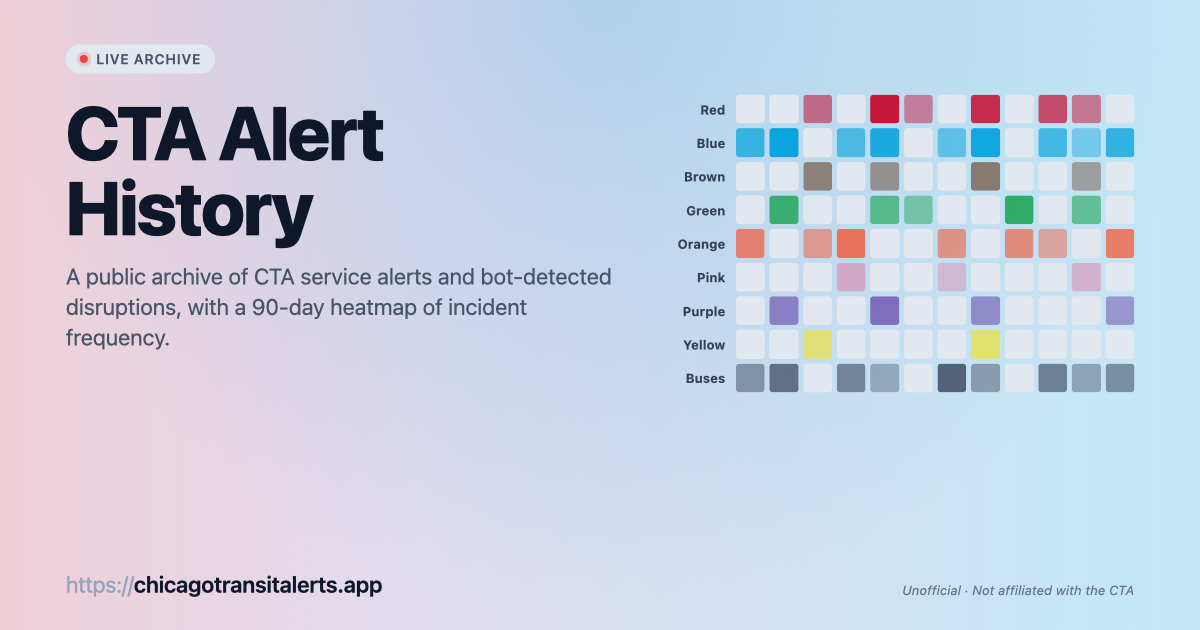
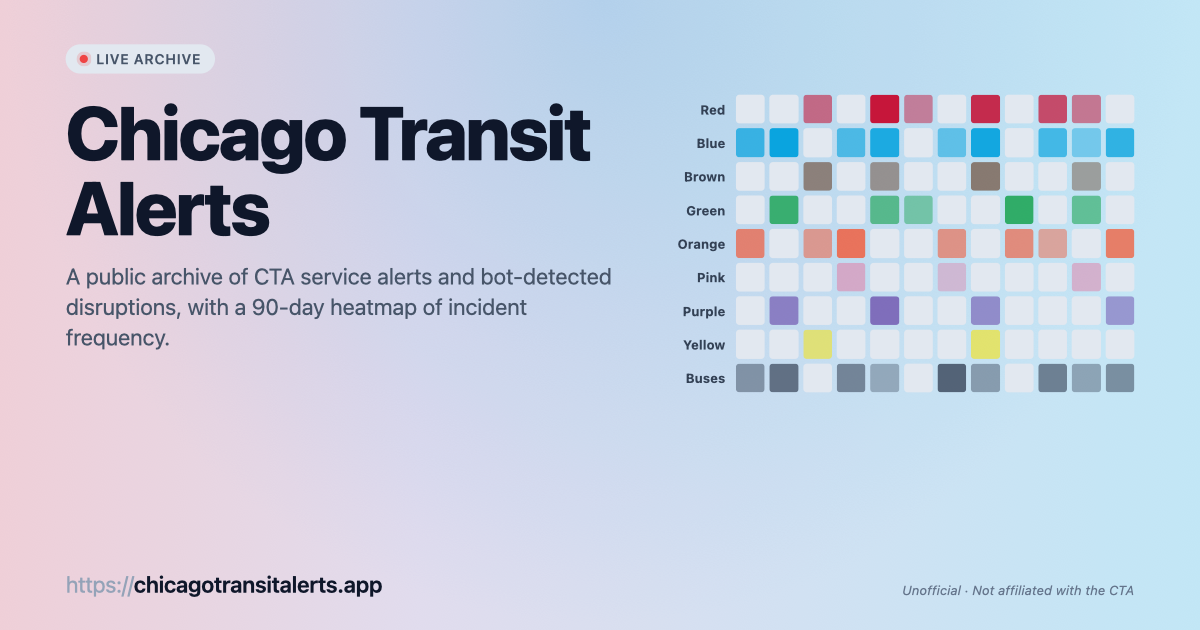
CTA Alerts -> Chicago Transit Alerts

Changed region(s): [[0.0308, 0.1508, 0.4933, 0.3921]]

diff --git a/index.html b/index.html
@@ -7,14 +7,14 @@
     <link rel="icon" type="image/png" sizes="16x16" href="/favicon-16.png" />
     <link rel="icon" type="image/svg+xml" href="/favicon.svg" />
     <link rel="apple-touch-icon" sizes="180x180" href="/apple-touch-icon.png" />
-    <meta name="apple-mobile-web-app-title" content="CTA Alerts" />
-    <title>CTA Alert History</title>
+    <meta name="apple-mobile-web-app-title" content="Chicago Transit Alerts" />
+    <title>Chicago Transit Alerts</title>
     <meta name="description" content="Major CTA alerts and service observations." />
     <link rel="canonical" href="https://chicagotransitalerts.app/" />
 
     <meta property="og:type" content="website" />
-    <meta property="og:site_name" content="CTA Alert History" />
-    <meta property="og:title" content="CTA Alert History" />
+    <meta property="og:site_name" content="Chicago Transit Alerts" />
+    <meta property="og:title" content="Chicago Transit Alerts" />
     <meta
       property="og:description"
       content="A public archive of CTA service alerts and bot-detected disruptions, with a 90-day heatmap of incident frequency."
@@ -26,11 +26,11 @@
     <meta property="og:image:height" content="630" />
     <meta
       property="og:image:alt"
-      content="CTA Alert History — a public archive of CTA service alerts and bot-detected disruptions, with a 90-day heatmap."
+      content="Chicago Transit Alerts — a public archive of CTA service alerts and bot-detected disruptions, with a 90-day heatmap."
     />
 
     <meta name="twitter:card" content="summary_large_image" />
-    <meta name="twitter:title" content="CTA Alert History" />
+    <meta name="twitter:title" content="Chicago Transit Alerts" />
     <meta
       name="twitter:description"
       content="A public archive of CTA service alerts and bot-detected disruptions, with a 90-day heatmap of incident frequency."
@@ -38,18 +38,18 @@
     <meta name="twitter:image" content="https://chicagotransitalerts.app/og-image.png" />
     <meta
       name="twitter:image:alt"
-      content="CTA Alert History — a public archive of CTA service alerts and bot-detected disruptions, with a 90-day heatmap."
+      content="Chicago Transit Alerts — a public archive of CTA service alerts and bot-detected disruptions, with a 90-day heatmap."
     />
     <link
       rel="alternate"
       type="application/atom+xml"
-      title="CTA Alert History"
+      title="Chicago Transit Alerts"
       href="/feed.xml"
     />
     <link
       rel="alternate"
       type="application/feed+json"
-      title="CTA Alert History"
+      title="Chicago Transit Alerts"
       href="/feed.json"
     />
   </head>

diff --git a/scripts/prerender-pages.js b/scripts/prerender-pages.js
@@ -227,7 +227,7 @@ function planPages(payload, dailyPayload) {
       outDir: resolve(DIST, 'calendar'),
       url: `${SITE}/calendar`,
       path: '/calendar',
-      ogTitle: '12-Month Calendar · CTA Alert History',
+      ogTitle: '12-Month Calendar · Chicago Transit Alerts',
       desc: 'A 12-month heatmap of daily CTA service alerts and bot-detected disruptions — archived on chicagotransitalerts.app.',
       subtitle,
       gridHtml,
@@ -245,7 +245,7 @@ function planPages(payload, dailyPayload) {
       outDir: resolve(DIST, 'compare'),
       url: `${SITE}/compare`,
       path: '/compare',
-      ogTitle: 'Compare CTA lines · CTA Alert History',
+      ogTitle: 'Compare CTA lines · Chicago Transit Alerts',
       desc: 'Side-by-side reliability, signal mix, and resolution time for up to 3 CTA train lines or bus routes — archived on chicagotransitalerts.app.',
       subtitle: '',
     });
@@ -264,7 +264,7 @@ function planPages(payload, dailyPayload) {
     outDir: resolve(DIST, 'stats'),
     url: `${SITE}/stats`,
     path: '/stats',
-    ogTitle: 'Stats · CTA Alert History',
+    ogTitle: 'Stats · Chicago Transit Alerts',
     desc: 'Worst days, hours, stations, and longest incidents on the CTA — archived on chicagotransitalerts.app.',
     subtitle: statsSubtitle(payload),
     statsHtml,
@@ -285,7 +285,7 @@ function planPages(payload, dailyPayload) {
       // Train pill already says "Red Line"; an additional headline would
       // be redundant. Leave the title empty so the template hides it.
       title: '',
-      ogTitle: `${info.label} Line · CTA Alert History`,
+      ogTitle: `${info.label} Line · Chicago Transit Alerts`,
       desc: `Service alerts and bot-detected disruptions on the ${info.label} Line — archived on chicagotransitalerts.app.`,
       subtitle: active
         ? 'Active disruption right now — see live status.'
@@ -321,7 +321,7 @@ function planPages(payload, dailyPayload) {
       path: `/route/${route}`,
       label: `#${route}`,
       title: name ?? '',
-      ogTitle: `${ogLabel} · CTA Alert History`,
+      ogTitle: `${ogLabel} · Chicago Transit Alerts`,
       desc: `Service alerts and bot-detected disruptions on the ${ogLabel} bus route — archived on chicagotransitalerts.app.`,
       subtitle: active
         ? 'Active disruption right now — see live status.'
@@ -385,7 +385,7 @@ function planPages(payload, dailyPayload) {
       outDir: resolve(DIST, 'day', isoDate),
       url: `${SITE}/day/${isoDate}`,
       path: `/day/${isoDate}`,
-      ogTitle: `${formatChicagoDay(dayUtc)} · CTA Alert History`,
+      ogTitle: `${formatChicagoDay(dayUtc)} · Chicago Transit Alerts`,
       desc: `CTA service alerts and bot-detected disruptions on ${formatChicagoDay(dayUtc)} — archived on chicagotransitalerts.app.`,
       title: formatChicagoDay(dayUtc),
       subtitle: `${entry.count} incident${entry.count === 1 ? '' : 's'} across ${entry.trainLines.size + entry.busRoutes.size} line${entry.trainLines.size + entry.busRoutes.size === 1 ? '' : 's'}/route${entry.trainLines.size + entry.busRoutes.size === 1 ? '' : 's'}`,
@@ -415,7 +415,7 @@ function planPages(payload, dailyPayload) {
       path: `/station/${slug}`,
       stationName: rec.name,
       linePills,
-      ogTitle: `${rec.name} · CTA Alert History`,
+      ogTitle: `${rec.name} · Chicago Transit Alerts`,
       desc: `Service alerts and bot-detected disruptions at ${rec.name} — archived on chicagotransitalerts.app.`,
       subtitle: `Train station · ${rec.count} incident${rec.count === 1 ? '' : 's'} on record (90d)`,
     });

diff --git a/src/lib/urlState.js b/src/lib/urlState.js
@@ -59,7 +59,8 @@ export { defaultShowBus };
 // selections — that's worth carrying across visits. dateRange and the
 // pinned day are deliberately excluded: a stale "30d" choice from last
 // month feels more confusing than helpful.
-const STORAGE_KEY = 'cta-alert-history:filters';
+const STORAGE_KEY = 'chicago-transit-alerts:filters';
+const LEGACY_STORAGE_KEY = 'cta-alert-history:filters';
 const STICKY_KEYS = [
   'selectedLines',
   'showBus',
@@ -70,8 +71,14 @@ const STICKY_KEYS = [
 
 export function readStoredFilters() {
   try {
-    const raw = window.localStorage.getItem(STORAGE_KEY);
-    if (!raw) return null;
+    let raw = window.localStorage.getItem(STORAGE_KEY);
+    if (!raw) {
+      const legacy = window.localStorage.getItem(LEGACY_STORAGE_KEY);
+      if (!legacy) return null;
+      window.localStorage.setItem(STORAGE_KEY, legacy);
+      window.localStorage.removeItem(LEGACY_STORAGE_KEY);
+      raw = legacy;
+    }
     const parsed = JSON.parse(raw);
     if (parsed == null || typeof parsed !== 'object') return null;
     return parsed;

diff --git a/scripts/generate-feed.js b/scripts/generate-feed.js
@@ -349,14 +349,14 @@ function emitAtom(records, feedUpdatedIso) {
   return `<?xml version="1.0" encoding="UTF-8"?>
 <feed xmlns="http://www.w3.org/2005/Atom" xmlns:media="http://search.yahoo.com/mrss/">
   <id>${FEED_ID}</id>
-  <title>CTA Alert History</title>
+  <title>Chicago Transit Alerts</title>
   <subtitle>Chicago Transit Authority service alerts and bot-detected disruptions.</subtitle>
   <link rel="alternate" type="text/html" href="${SITE}/"/>
   <link rel="self" type="application/atom+xml" href="${SITE}/feed.xml"/>
   <link rel="alternate" type="application/feed+json" href="${SITE}/feed.json"/>
   <link rel="hub" href="https://pubsubhubbub.superfeedr.com/"/>
   <updated>${feedUpdatedIso}</updated>
-  <author><name>cta-alert-history</name></author>
+  <author><name>chicago-transit-alerts</name></author>
 ${entries}
 </feed>
 `;
@@ -365,12 +365,12 @@ ${entries}
 function emitJsonFeed(records) {
   return {
     version: 'https://jsonfeed.org/version/1.1',
-    title: 'CTA Alert History',
+    title: 'Chicago Transit Alerts',
     description: 'Chicago Transit Authority service alerts and bot-detected disruptions.',
     home_page_url: `${SITE}/`,
     feed_url: `${SITE}/feed.json`,
     language: 'en-US',
-    authors: [{ name: 'cta-alert-history' }],
+    authors: [{ name: 'chicago-transit-alerts' }],
     hubs: [{ type: 'WebSub', url: 'https://pubsubhubbub.superfeedr.com/' }],
     items: records.map((r) => ({
       id: r.id,

diff --git a/scripts/prerender-events.js b/scripts/prerender-events.js
@@ -194,7 +194,7 @@ function buildJsonLd(incident, { ogTitle, desc, url }) {
   }
   ld.organizer = {
     '@type': 'Organization',
-    name: 'CTA Alert History (unofficial)',
+    name: 'Chicago Transit Alerts (unofficial)',
     url: SITE,
   };
   return JSON.stringify(ld);
@@ -219,7 +219,7 @@ function buildHtmlStub(shell, { id, title, subtitle, accent, incident, variant =
   // canonical always points at the bare URL even on the /resolved variant —
   // search engines should treat /resolved as a duplicate, not a separate page.
   let html = shell
-    .replace(/<title>[^<]*<\/title>/, `<title>${escHtml(ogTitle)} — CTA Alert History</title>`)
+    .replace(/<title>[^<]*<\/title>/, `<title>${escHtml(ogTitle)} — Chicago Transit Alerts</title>`)
     .replace(
       /<link rel="canonical"[^>]*>/,
       `<link rel="canonical" href="${escAttr(canonicalUrl)}" />`,

diff --git a/src/components/CalendarPage.jsx b/src/components/CalendarPage.jsx
@@ -129,9 +129,9 @@ export default function CalendarPage() {
   }, []);
 
   useEffect(() => {
-    document.title = 'Calendar · CTA Alert History';
+    document.title = 'Calendar · Chicago Transit Alerts';
     return () => {
-      document.title = 'CTA Alert History';
+      document.title = 'Chicago Transit Alerts';
     };
   }, []);
 

diff --git a/src/components/ComparePage.jsx b/src/components/ComparePage.jsx
@@ -477,9 +477,9 @@ export default function ComparePage() {
   const [selected, setSelected] = useState(initial.selected);
 
   useEffect(() => {
-    document.title = 'Compare · CTA Alert History';
+    document.title = 'Compare · Chicago Transit Alerts';
     return () => {
-      document.title = 'CTA Alert History';
+      document.title = 'Chicago Transit Alerts';
     };
   }, []);
 

diff --git a/src/components/StatsPage.jsx b/src/components/StatsPage.jsx
@@ -121,9 +121,9 @@ export default function StatsPage() {
   }, []);
 
   useEffect(() => {
-    document.title = 'Stats · CTA Alert History';
+    document.title = 'Stats · Chicago Transit Alerts';
     return () => {
-      document.title = 'CTA Alert History';
+      document.title = 'Chicago Transit Alerts';
     };
   }, []);
 

diff --git a/scripts/og-calendar-template.html b/scripts/og-calendar-template.html
@@ -121,7 +121,7 @@
   <body>
     <div class="card">
       <div class="accent-bar"></div>
-      <p class="eyebrow">CTA Alert History</p>
+      <p class="eyebrow">Chicago Transit Alerts</p>
       <h1 class="title">12-Month Calendar</h1>
       <p class="subtitle">__SUBTITLE__</p>
       <div class="grid-wrap">__GRID__</div>

diff --git a/scripts/og-compare-template.html b/scripts/og-compare-template.html
@@ -116,7 +116,7 @@
   <body>
     <div class="card">
       <div class="accent-bar"></div>
-      <p class="eyebrow">CTA Alert History</p>
+      <p class="eyebrow">Chicago Transit Alerts</p>
       <h1 class="title">Compare</h1>
       <p class="subtitle">Reliability, signal mix, and resolution time — up to 3 CTA train lines or bus routes, side-by-side, over the last 90 days.</p>
       <div class="chart" aria-hidden="true">

diff --git a/scripts/og-day-template.html b/scripts/og-day-template.html
@@ -97,7 +97,7 @@
   <body>
     <div class="card">
       <div class="accent-bar"></div>
-      <p class="eyebrow">CTA Alert History</p>
+      <p class="eyebrow">Chicago Transit Alerts</p>
       <h1 class="title">__TITLE__</h1>
       <p class="subtitle">__SUBTITLE__</p>
       <div class="pills">__PILLS__</div>

diff --git a/scripts/og-line-template.html b/scripts/og-line-template.html
@@ -137,7 +137,7 @@
     <div class="card" style="--accent: __ACCENT__; --accent-soft: __ACCENT_SOFT__; --accent-text: __ACCENT_TEXT__;">
       <div class="accent-bar"></div>
       __ACTIVE_RIBBON__
-      <p class="eyebrow">CTA Alert History</p>
+      <p class="eyebrow">Chicago Transit Alerts</p>
       <div class="pill">__LABEL__</div>
       <h1 class="title">__TITLE__</h1>
       <p class="subtitle">__SUBTITLE__</p>